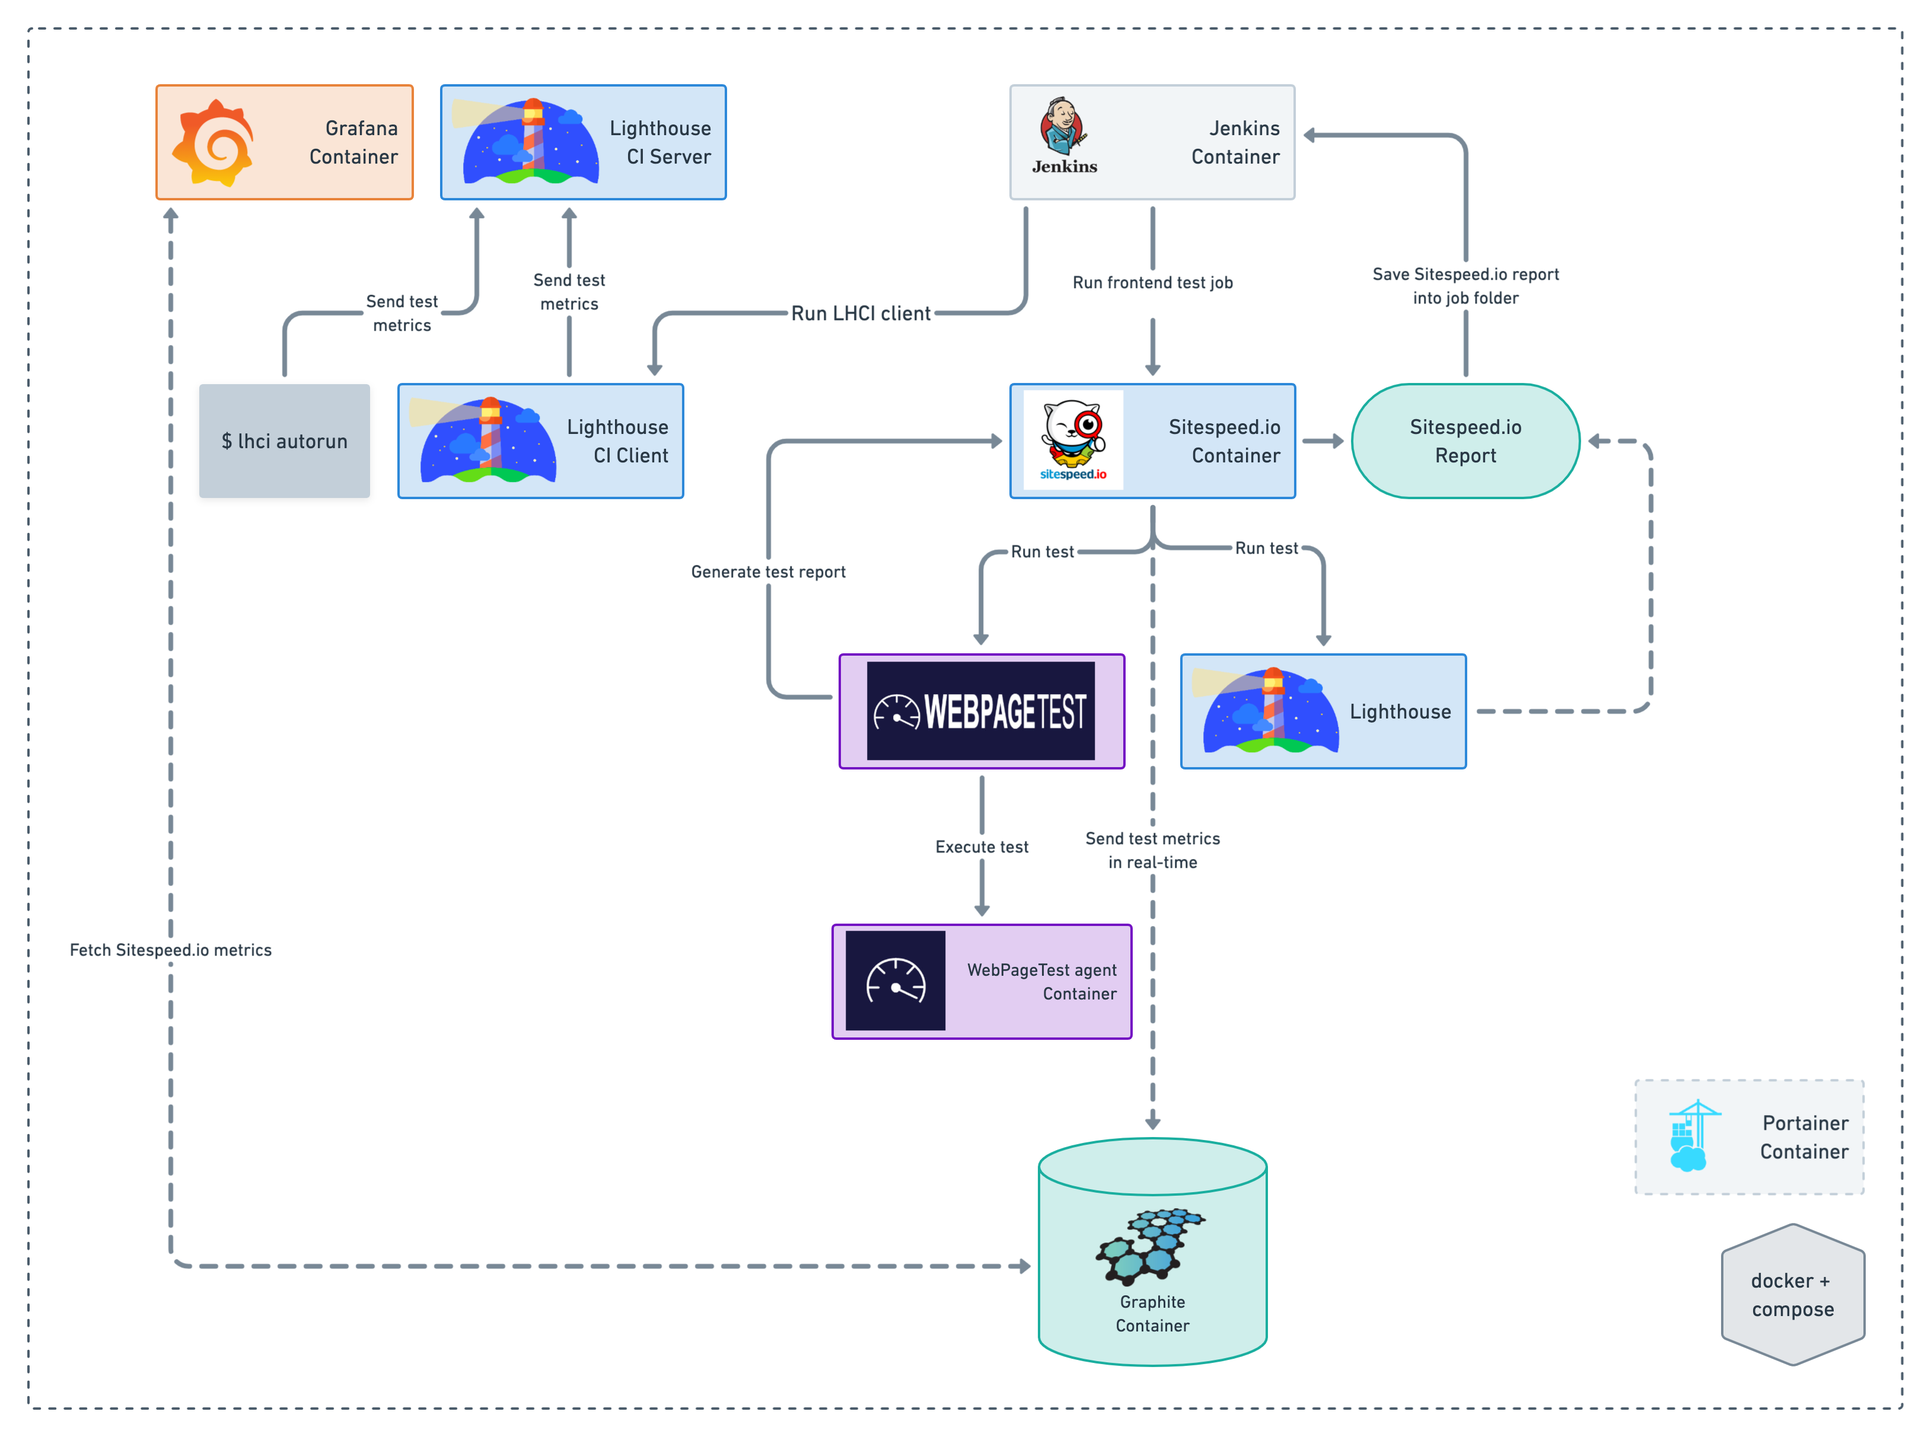
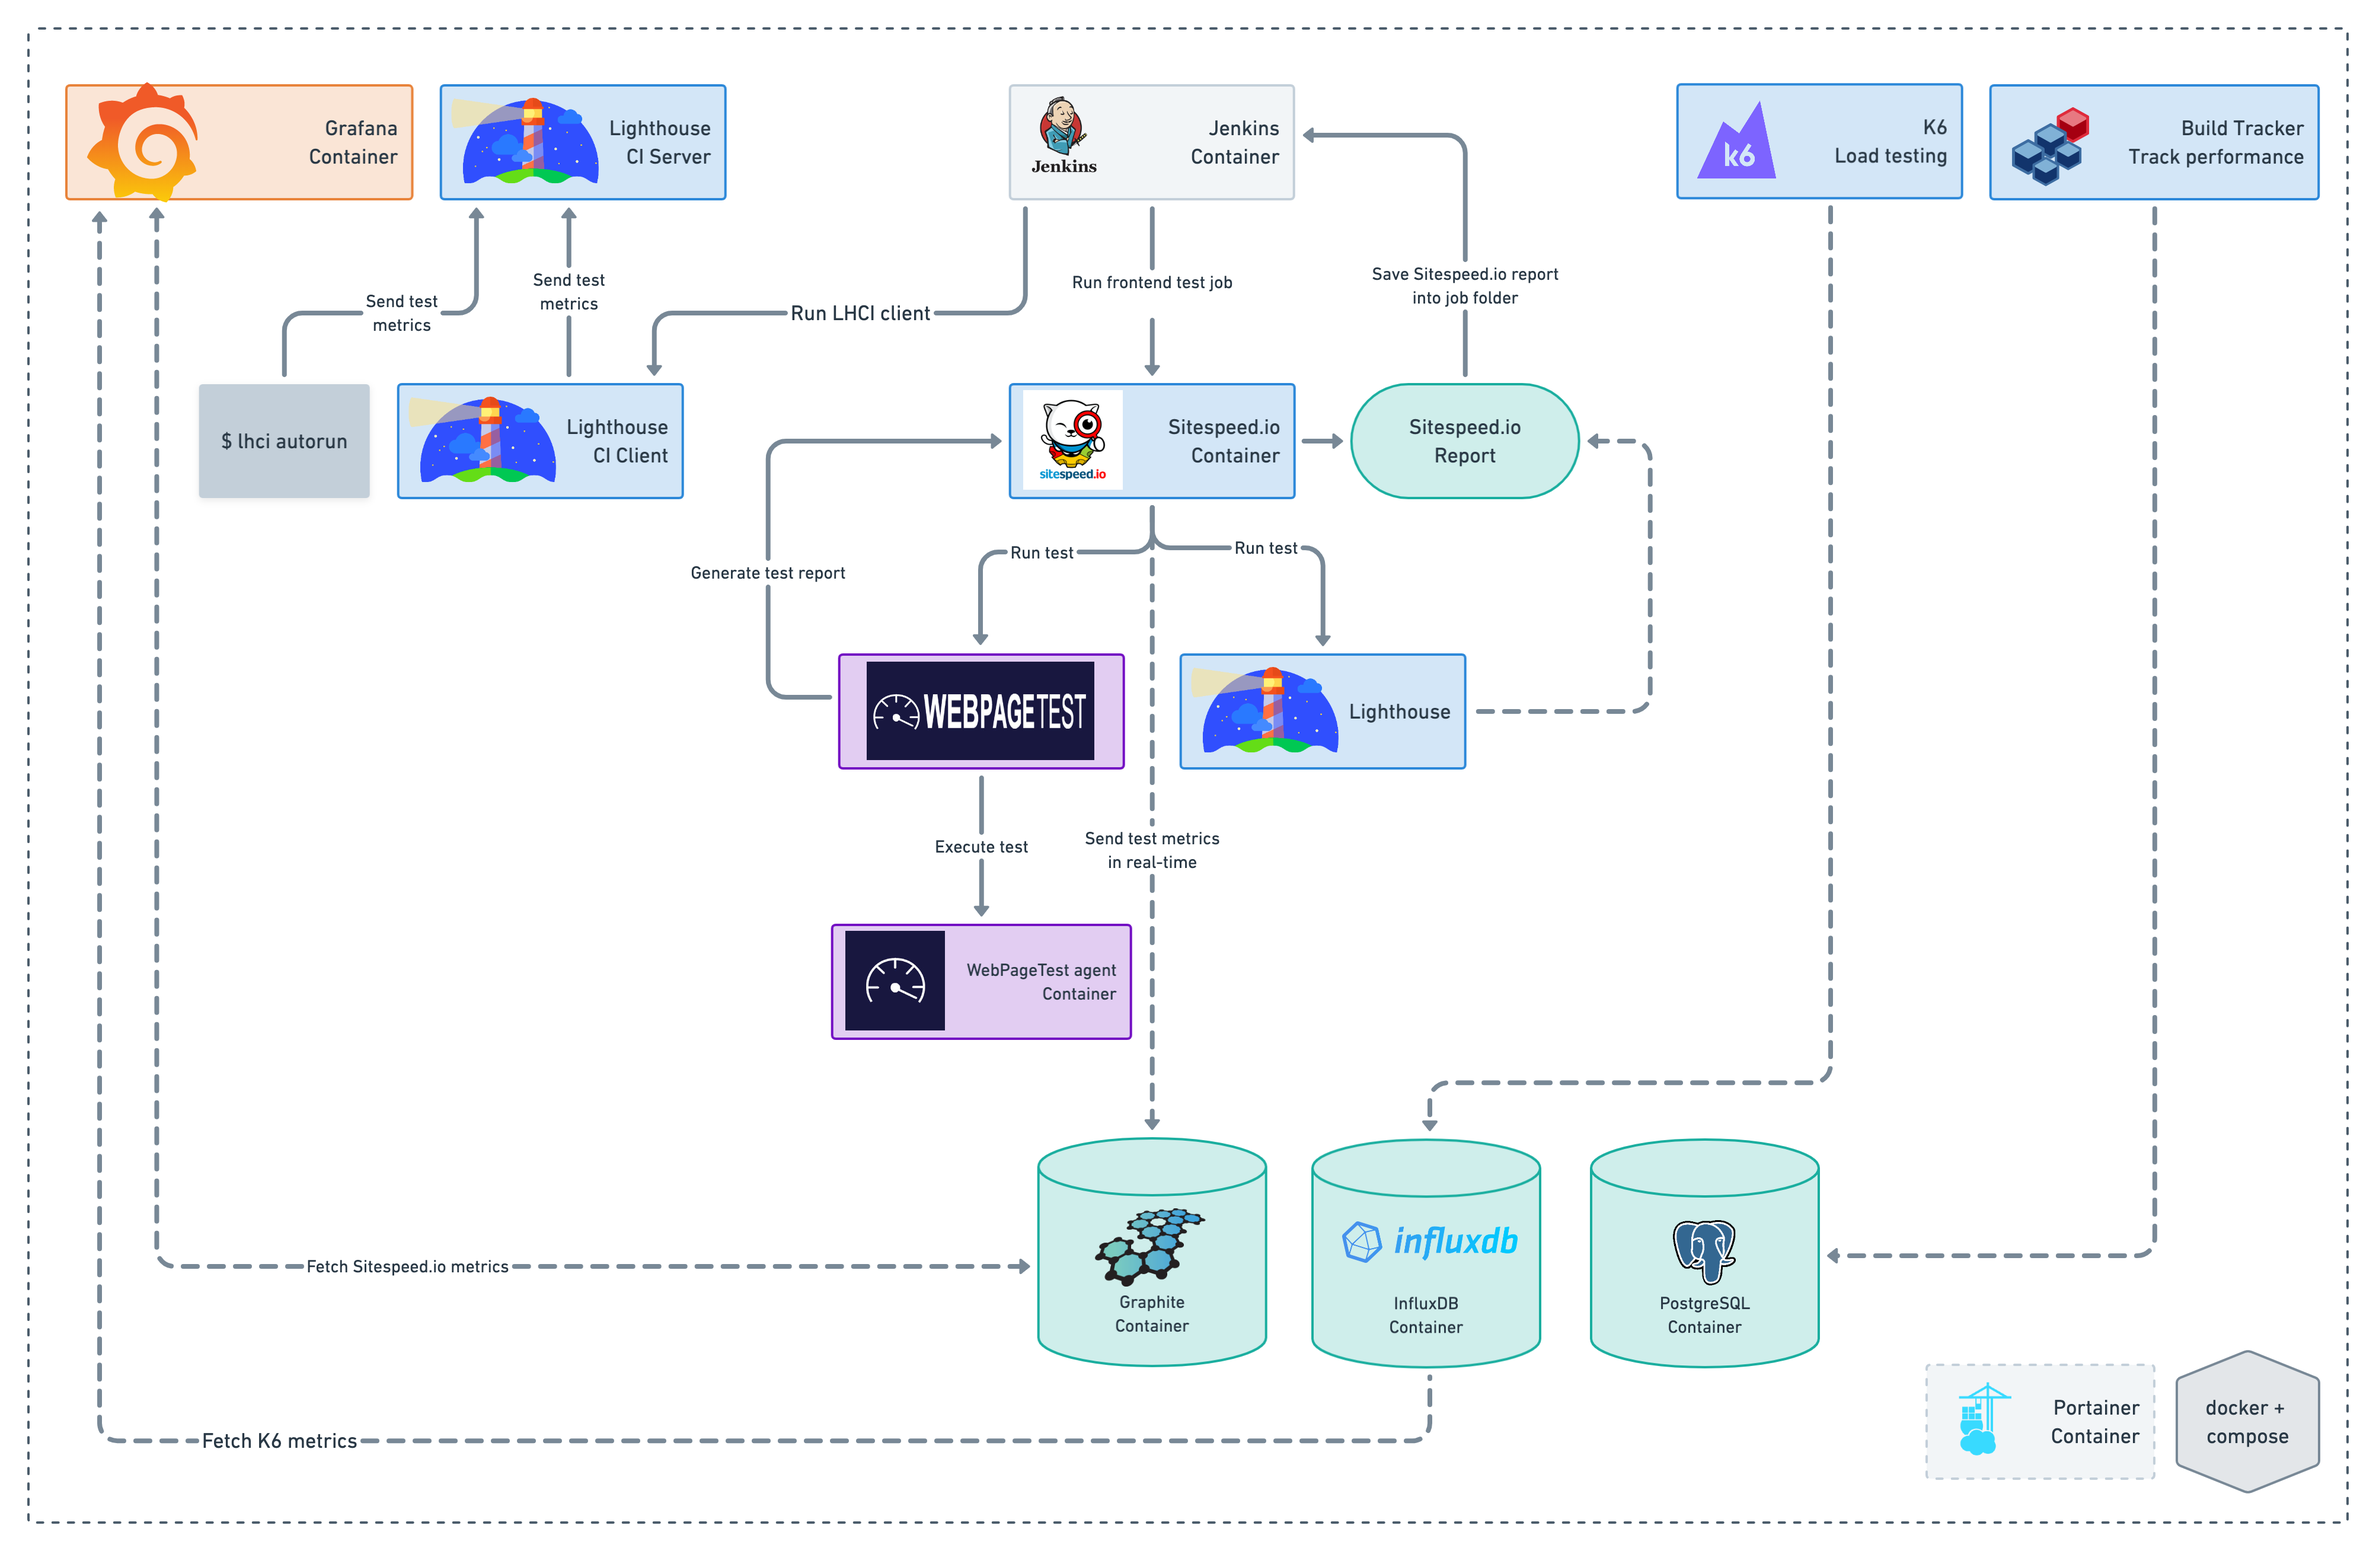
Add BuildTracker

diff --git a/test/buildtracker/fixtures/test-project/dist-v1/main.min.js b/test/buildtracker/fixtures/test-project/dist-v1/main.min.js
@@ -1,0 +1,41 @@
+import baseClone from './.internal/baseClone.js'
+
+/** Used to compose bitmasks for cloning. */
+const CLONE_DEEP_FLAG = 1
+const CLONE_SYMBOLS_FLAG = 4
+
+/**
+ * This method is like `cloneWith` except that it recursively clones `value`.
+ * The customizer is invoked with up to four arguments
+ * (value [, index|key, object, stack]).
+ *
+ * @since 4.0.0
+ * @category Lang
+ * @param {*} value The value to recursively clone.
+ * @param {Function} [customizer] The function to customize cloning.
+ * @returns {*} Returns the deep cloned value.
+ * @see cloneWith
+ * @example
+ *
+ * function customizer(value) {
+ *   if (isElement(value)) {
+ *     return value.cloneNode(true)
+ *   }
+ * }
+ *
+ * const el = cloneDeepWith(document.body, customizer)
+ *
+ * console.log(el === document.body)
+ * // => false
+ * console.log(el.nodeName)
+ * // => 'BODY'
+ * console.log(el.childNodes.length)
+ * // => 20
+ */
+function cloneDeepWith(value, customizer) {
+  customizer = typeof customizer === 'function' ? customizer : undefined
+  return baseClone(value, CLONE_DEEP_FLAG | CLONE_SYMBOLS_FLAG, customizer)
+}
+
+export default cloneDeepWith
+// test

diff --git a/test/buildtracker/fixtures/test-project/dist-v1/pages/about.min.js b/test/buildtracker/fixtures/test-project/dist-v1/pages/about.min.js
@@ -1,0 +1,41 @@
+import baseClone from './.internal/baseClone.js'
+
+/** Used to compose bitmasks for cloning. */
+const CLONE_DEEP_FLAG = 1
+const CLONE_SYMBOLS_FLAG = 4
+
+/**
+ * This method is like `cloneWith` except that it recursively clones `value`.
+ * The customizer is invoked with up to four arguments
+ * (value [, index|key, object, stack]).
+ *
+ * @since 4.0.0
+ * @category Lang
+ * @param {*} value The value to recursively clone.
+ * @param {Function} [customizer] The function to customize cloning.
+ * @returns {*} Returns the deep cloned value.
+ * @see cloneWith
+ * @example
+ *
+ * function customizer(value) {
+ *   if (isElement(value)) {
+ *     return value.cloneNode(true)
+ *   }
+ * }
+ *
+ * const el = cloneDeepWith(document.body, customizer)
+ *
+ * console.log(el === document.body)
+ * // => false
+ * console.log(el.nodeName)
+ * // => 'BODY'
+ * console.log(el.childNodes.length)
+ * // => 20
+ */
+function cloneDeepWith(value, customizer) {
+  customizer = typeof customizer === 'function' ? customizer : undefined
+  return baseClone(value, CLONE_DEEP_FLAG | CLONE_SYMBOLS_FLAG, customizer)
+}
+
+export default cloneDeepWith
+// test

diff --git a/test/buildtracker/fixtures/test-project/dist-v1/vendor.main.js b/test/buildtracker/fixtures/test-project/dist-v1/vendor.main.js
@@ -1,0 +1,41 @@
+import baseClone from './.internal/baseClone.js'
+
+/** Used to compose bitmasks for cloning. */
+const CLONE_DEEP_FLAG = 1
+const CLONE_SYMBOLS_FLAG = 4
+
+/**
+ * This method is like `cloneWith` except that it recursively clones `value`.
+ * The customizer is invoked with up to four arguments
+ * (value [, index|key, object, stack]).
+ *
+ * @since 4.0.0
+ * @category Lang
+ * @param {*} value The value to recursively clone.
+ * @param {Function} [customizer] The function to customize cloning.
+ * @returns {*} Returns the deep cloned value.
+ * @see cloneWith
+ * @example
+ *
+ * function customizer(value) {
+ *   if (isElement(value)) {
+ *     return value.cloneNode(true)
+ *   }
+ * }
+ *
+ * const el = cloneDeepWith(document.body, customizer)
+ *
+ * console.log(el === document.body)
+ * // => false
+ * console.log(el.nodeName)
+ * // => 'BODY'
+ * console.log(el.childNodes.length)
+ * // => 20
+ */
+function cloneDeepWith(value, customizer) {
+  customizer = typeof customizer === 'function' ? customizer : undefined
+  return baseClone(value, CLONE_DEEP_FLAG | CLONE_SYMBOLS_FLAG, customizer)
+}
+
+export default cloneDeepWith
+// test

diff --git a/buildtracker/build-tracker.config.js b/buildtracker/build-tracker.config.js
@@ -1,0 +1,11 @@
+const withPostgres = require('@build-tracker/plugin-with-postgres').default;
+
+module.exports = withPostgres({
+  url: 'http://127.0.0.1:9002',
+  pg: {
+    user: 'myuser',
+    password: 'mypassword',
+    host: 'postgres', // This is the docker-componse container name for postgres https://docs.docker.com/compose/networking/
+    database: 'postgres'
+  }
+});

diff --git a/test/buildtracker/fixtures/test-project/build-tracker.config.js b/test/buildtracker/fixtures/test-project/build-tracker.config.js
@@ -1,0 +1,4 @@
+module.exports = {
+  applicationUrl: "http://127.0.0.1:9002", // The same as your server config `url`
+  artifacts: ["dist-v1/**/*.js"] // an Array of glob-style file paths
+};

diff --git a/README.md b/README.md
@@ -11,6 +11,7 @@ Framework consists of next services:
 - **Sitespeed.io**: set of tools for frontend load testing
 - **Webpagetest**: private instance of webpagetest server for frontend tests execution
 - **K6**: tool for backend load testing
+- **Build Tracker** tool for monitoring asset sizes and performance budgets
 - **Grafana**: data visualization & monitoring
 - **Graphite**: time series DB platform for metrics
 - **InfluxDB**: time series DB optimized for fast storage and retrieval of time series data
@@ -69,11 +70,12 @@ All containers should be up and running
 
 ### Services endpoints
 
-- **jenkins** localhost:8181
-- **LHCI** localhost:9001
-- **webpagetest server** localhost:4000
-- **grafana** localhost:3000
-- **portainer** localhost:9000
+- **jenkins** [localhost:8181](http://localhost:8181/)
+- **LHCI** [localhost:9001](http://localhost:9001/)
+- **webpagetest server** [localhost:4000](http://localhost:4000/)
+- **build tracker server** [localhost:9002](http://localhost:9002/)
+- **grafana** [localhost:3000](http://localhost:3000/)
+- **portainer** [localhost:9000](http://localhost:9000/)
 
 ### How to stop
 
@@ -130,6 +132,18 @@ The results will be saved on the associated k6 reports folder and also pushed to
 ![](docs/img/grafana-dashboard-k6-example.png)
 
 *To add this dashboard follow the instructions [here](https://k6.io/docs/results-visualization/influxdb-+-grafana).*
+
+## Build Tracker
+
+*Track performance budgets & prevent unexpected bloat.*
+
+![](docs/img/build-tracker-example.png)
+
+The docker compose services contains the build tracker server that can be used to send build artifacts from the build tracker CLI and monitor.
+
+Once the service is running access [localhost:9002](http://localhost:9002) to see the dashboard.
+
+In order to send build artifacts follow the instructions on the [docs site](https://buildtracker.dev/docs/packages/cli). You can also find an example in the test folder for build tracker in this repo.
 
 ## Grafana
 

diff --git a/CHANGELOG.md b/CHANGELOG.md
@@ -7,6 +7,11 @@ and this project adheres to [Semantic Versioning](http://semver.org/spec/v2.0.0.
 
 ## [Unreleased]
 
+## [1.3.0] - 2020-03-27
+### Added
+- Build Tracker server
+- Bump dependencies (lhci, sitespeed.io)
+
 ## [1.2.0] - 2020-03-20
 ### Added
 - Bump all dependecies to latest versions
